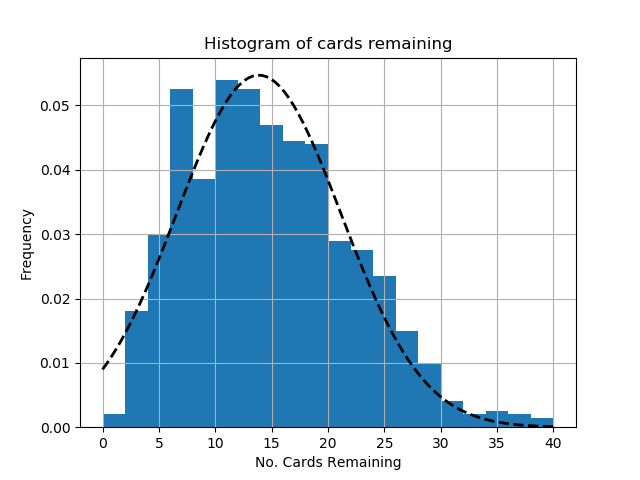
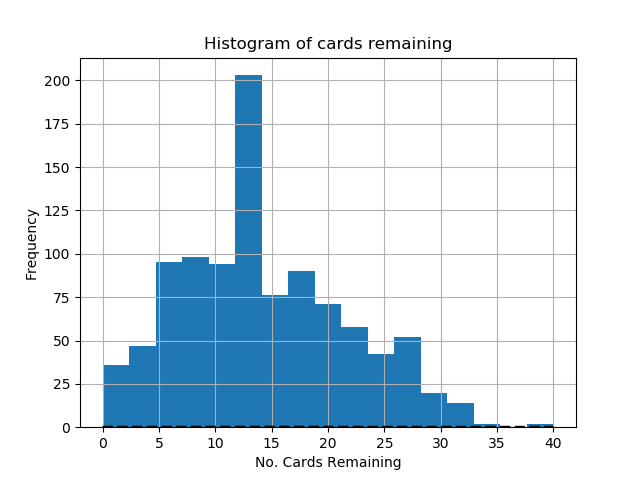
best fit

diff --git a/p5.py b/p5.py
@@ -73,7 +73,7 @@ print( "Sample standard deviation of remaining cards: ", stdev(rem) )
     
 #(mu, sigma) = norm.fit(rem)
 
-n, bins, patches = plt.hist(rem, bins='auto', normed=True)
+n, bins, patches = plt.hist(rem, bins='auto')
 #y = mlab.normpdf(bins, mean(rem), stdev(rem)**2)
 avg = mean(rem)
 var= stdev(rem)**2
